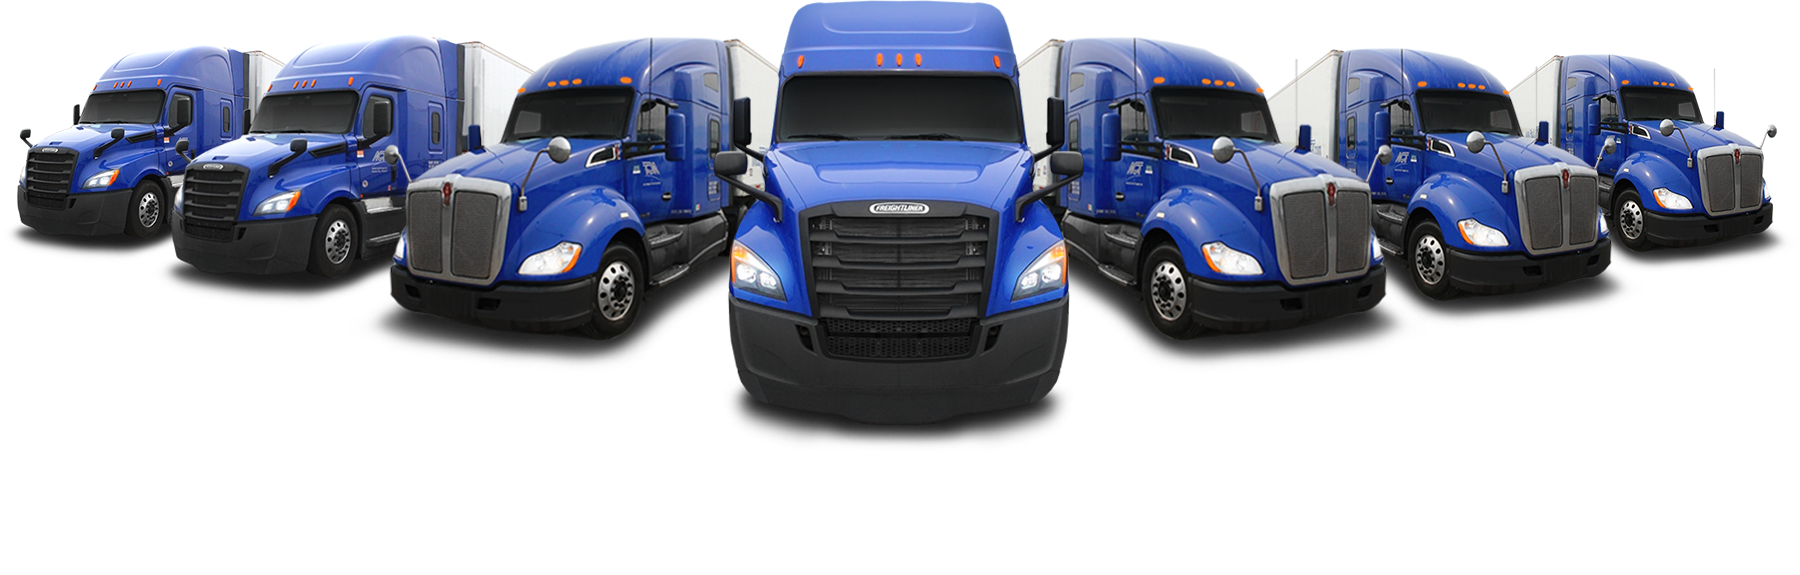
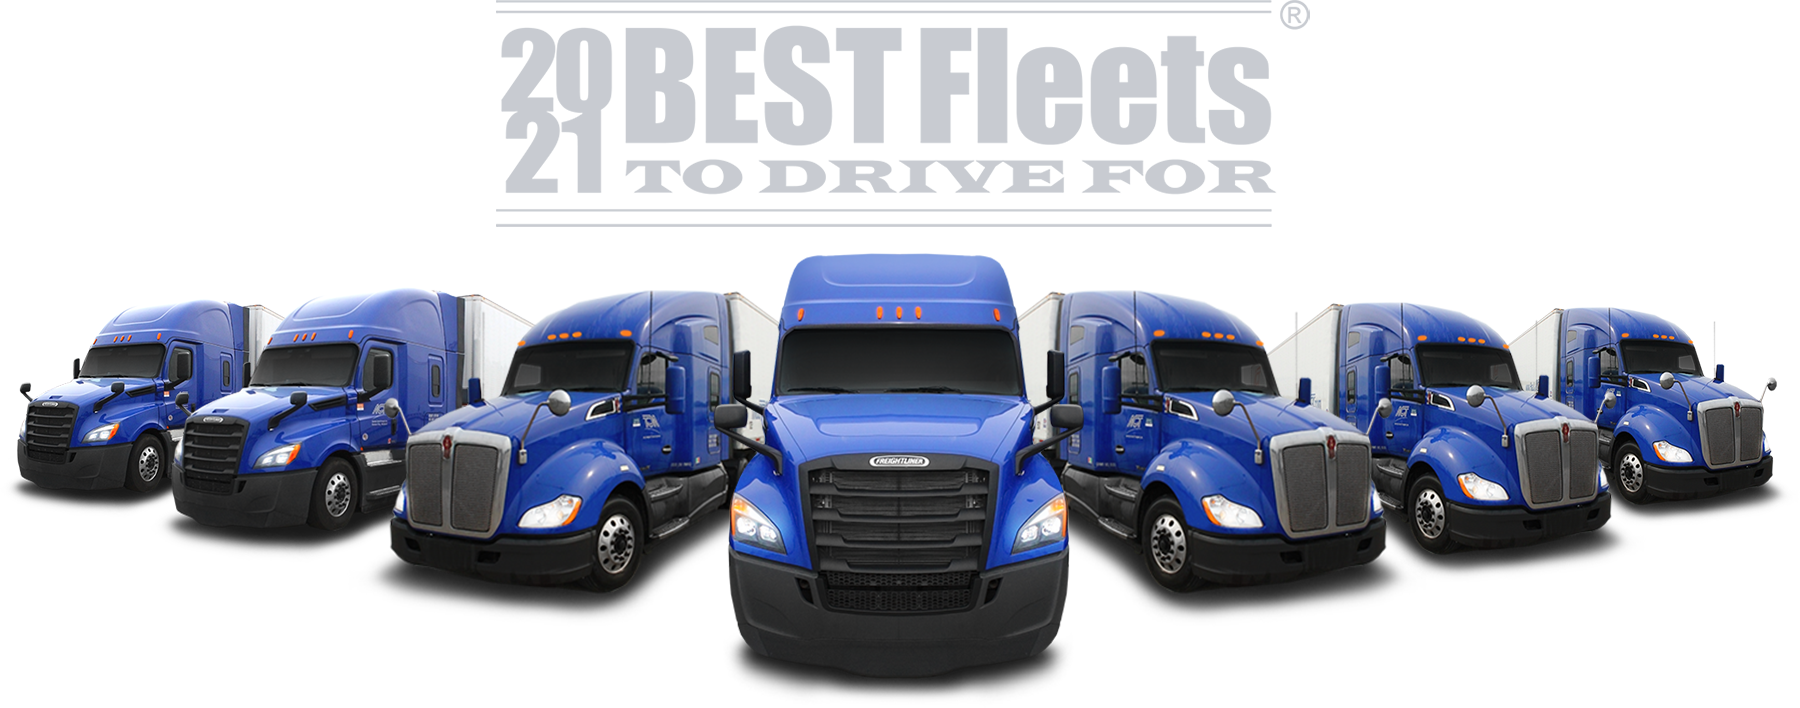
add best fleets graphic

diff --git a/css/main.css b/css/main.css
@@ -595,7 +595,7 @@ header .phone-header i {
   }
 }
 footer {
-  padding: 50px 0 90px 0;
+  padding: 170px 0 90px 0;
   background: #1d4485;
 }
 footer .column {
@@ -1131,7 +1131,7 @@ footer .footer-bottom_links a:hover {
 .apply-cta {
   background: #f9f8f6;
   background-size: auto 100%;
-  padding: 120px 0 200px 0;
+  padding: 120px 0;
 }
 .apply-cta p {
   max-width: 550px;
@@ -1140,11 +1140,17 @@ footer .footer-bottom_links a:hover {
 }
 
 .best-fleets {
-  background: #1d4485;
-  padding-bottom: 60px;
+  background: white;
+  padding-top: 60px;
 }
 .best-fleets img {
-  margin-top: -90px;
+  margin-bottom: -130px;
+  margin-top: 60px;
+}
+.best-fleets p {
+  max-width: 550px;
+  margin-left: auto;
+  margin-right: auto;
 }
 
 /*# sourceMappingURL=main.css.map */

diff --git a/sass/_home.scss b/sass/_home.scss
@@ -331,7 +331,7 @@
 .apply-cta{
 	background:$gray_light;
 	background-size:auto 100%;
-	padding:120px 0 200px 0;
+	padding:120px 0;
 	p{
 		max-width:550px;
 		margin-left:auto;
@@ -342,10 +342,17 @@
 // BEST FLEETS
 // ——————————————————————————————————— 
 .best-fleets{
-	background:$blue;
-	padding-bottom:60px;
+	background:white;
+	padding-top:60px;
+	//padding-bottom:30px;
 	img{
-		margin-top:-90px;
+		margin-bottom:-130px;
+		margin-top:60px;
+	}
+	p{
+		max-width:550px;
+		margin-left:auto;
+		margin-right:auto;
 	}
 	
 }

diff --git a/sass/_global.scss b/sass/_global.scss
@@ -214,7 +214,7 @@ header{
 // FOOTER
 // ——————————————————————————
 footer{
-	padding:50px 0 90px 0;
+	padding:170px 0 90px 0;
 	background:$blue;
 	.column{
 		width:auto;
